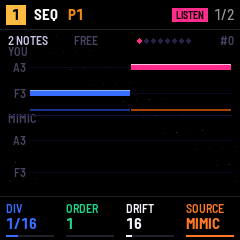
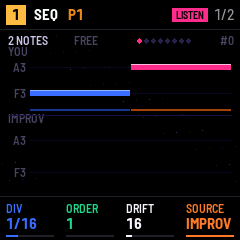
IMPROV: the source shows its own name (it read MIMIC)

Changed region(s): [[0.7875, 0.9042, 0.9625, 0.9625], [0.0292, 0.4667, 0.2042, 0.525]]

diff --git a/app/ui.c b/app/ui.c
@@ -84,7 +84,7 @@ static const q_page PAGE[] = {
     {"MOON", {"PERIOD", "PHASE", "PAD"}, {1, 0, 0}, {32, 31, 15}},       /* a KIT's: PAD for NOTE */
     {"CHORD", {"DEGREE", "SIZE"}, {0, 0}, {6, CS_N - 1}},                 /* the chord under PRESET's cursor */
     {"STEP", {"OP"}, {0}, {3}},                                          /* the TONNETZ step under PRESET's cursor */
-    {"MIMIC", {"DIV", "ORDER", "DRIFT", "SOURCE"}, {0, 1, 0, 0}, {DIV_N - 1, 2, 127, SRC_N - 1}},
+    {"IMPROV", {"DIV", "ORDER", "DRIFT", "SOURCE"}, {0, 1, 0, 0}, {DIV_N - 1, 2, 127, SRC_N - 1}},
     {"LOOP", {"LOOP"}, {0}, {16}},                                       /* 0 FREE */
 };
 
@@ -115,7 +115,7 @@ static const char *const INS_NAME[IT_N] = {"INSERT OFF", "OVERDRIVE", "WAVEFOLD"
 static const char *const INS_LABEL[IT_N][3] = {{"", "", ""}, {"DRIVE", "TONE", ""}, {"FOLD", "BIAS", "TONE"}, {"BITS", "RATE", ""},
                                                 {"RATE", "DEPTH", ""}, {"RATE", "DEPTH", "FEEDBK"}, {"FREQ", "", ""}, {"NOTE", "FEEDBK", "DAMP"}};
 static const char *const AMODE_NAME[6] = {"OFF", "UP", "DOWN", "UP-DN", "RAND", "ORDER"};
-static const char *const SRC_NAME[SRC_N] = {"STEP", "ATLAS", "FLEET", "COLONY", "LOOM", "CADENCE", "LATTICE", "MOONS", "MIMIC"};
+static const char *const SRC_NAME[SRC_N] = {"STEP", "ATLAS", "FLEET", "COLONY", "LOOM", "CADENCE", "LATTICE", "MOONS", "IMPROV"};
 /* Marbles' T models, its TGeneratorModel order (gen.c) */
 static const char *const T_MODE_NAME[7] = {"C.BERN", "CLUSTERS", "DRUMS", "I.BERN", "DIVIDER", "3 STATES", "MARKOV"};
 static const char *const PATH_NAME[PATH_N] = {"FWD", "REV", "PING-PONG", "SNAKE", "COLUMNS", "SPIRAL", "RANDOM", "XY"};

diff --git a/app/scene_mimic.c b/app/scene_mimic.c
@@ -151,7 +151,7 @@ void mimic_band(const q_miview *v, int32_t oy)
         cv_rect((int32_t)((i * 733 + 170) / 10 % 240), oy + 4 + (int32_t)((i * 479 + 40) / 10 % 160), 1, 1,
                 i % 4 ? RGB(0x1c, 0x13, 0x40) : RGB(0x3a, 0x2f, 0x63));
     glo_text(8, oy + 21, &FONT_XS, "YOU", MV_MUTE, 2);
-    glo_text(8, oy + MV_IM0 - 6, &FONT_XS, "MIMIC", MV_MUTE, 2);
+    glo_text(8, oy + MV_IM0 - 6, &FONT_XS, "IMPROV", MV_MUTE, 2);
     cv_rect(8, oy + 85, 224, 1, RGB(0x1c, 0x13, 0x40));
     if (m->n) {
         float rh = (float)(MV_PH1 - MV_PH0) / (float)nr, ch = rh - 1.0f < 6.0f ? rh - 1.0f : 6.0f;

diff --git a/app/docs/MANUAL.md b/app/docs/MANUAL.md
@@ -39,7 +39,7 @@ an animated *scene* that moves with the sound and with every knob.
 | Track | One of the four parts, 1–4. ALGORITHM picks the current one. |
 | Sound | What a track sounds like: a model (EDIT) shaped by ENV, LFO, ARP and FX. |
 | Pattern | P1–P8, eight per track. A track plays one pattern at a time. |
-| Source | Where a pattern's notes come from: STEP, ATLAS, FLEET, COLONY, LOOM, CADENCE, LATTICE, MOONS or MIMIC. |
+| Source | Where a pattern's notes come from: STEP, ATLAS, FLEET, COLONY, LOOM, CADENCE, LATTICE, MOONS or IMPROV. |
 | Step | One of a STEP pattern's 64 places, 16 per page of the grid. |
 | P-lock | A knob's value stored on a single step. |
 | Scene | The four patterns playing and the mutes, kept together. Eight per project. |
@@ -688,7 +688,7 @@ A scene can switch a track from one source to another, since each pattern has it
 | CADENCE | A chord progression. |
 | LATTICE | A walk from chord to chord on the Tonnetz. |
 | MOONS | Moons on orbits, each playing as it passes. |
-| MIMIC | An improviser that learns a phrase from you. |
+| IMPROV | An improviser that learns a phrase from you. |
 
 What the generative sources (all but STEP) share:
 
@@ -696,12 +696,12 @@ What the generative sources (all but STEP) share:
   the scenes like a STEP pattern's.
 - A loop is 16 steps (ATLAS 32, FLEET its LEN): a pattern change waits for its end, and a song entry counts it.
 - Without REC, the keys play the track. REC writes nothing in them, except LOOM, CADENCE and LATTICE, which have a
-  GRID of their own, and MIMIC, which listens.
+  GRID of their own, and IMPROV, which listens.
 - PRESET always does something useful for the source: each subsection says what.
-- On a synth track, setting SOURCE to CADENCE, LATTICE, MOONS or MIMIC raises POLY to 3 if it is lower, so their
+- On a synth track, setting SOURCE to CADENCE, LATTICE, MOONS or IMPROV raises POLY to 3 if it is lower, so their
   chords sound.
 - COLONY, LOOM, CADENCE, LATTICE and MOONS count in degrees of GLO's scale, up from their NOTE brought into the
-  scale. FLEET has its own allowed notes; ATLAS plays a fixed NOTE; MIMIC plays the notes it learnt.
+  scale. FLEET has its own allowed notes; ATLAS plays a fixed NOTE; IMPROV plays the notes it learnt.
 
 ### STEP
 
@@ -898,33 +898,33 @@ passes the top. Moons with different periods meet now and then: those meetings p
 MOONS is QUARTZ's own. Orbit sequencers such as [Aphelian](https://apps.apple.com/app/aphelian/id1435855056) play
 with the same image.
 
-### MIMIC
+### IMPROV
 
-You play a phrase, MIMIC improvises on it: it picks a place in the phrase where the last notes it played appear, and
+You play a phrase, IMPROV improvises on it: it picks a place in the phrase where the last notes it played appear, and
 goes on from there. The result sounds like your phrase, rearranged.
 
 | Page | K1 | K2 | K3 | K4 |
 | --- | --- | --- | --- | --- |
-| MIMIC | DIV | ORDER, 1–2 | DRIFT, 0–127 | SOURCE |
+| IMPROV | DIV | ORDER, 1–2 | DRIFT, 0–127 | SOURCE |
 | LOOP | LOOP: FREE, 1–16 | — | — | — |
 
-- **LISTEN**: in SEQ, press REC once. MIMIC goes quiet, the header shows `LISTEN`, and every note you play is learnt,
+- **LISTEN**: in SEQ, press REC once. IMPROV goes quiet, the header shows `LISTEN`, and every note you play is learnt,
   with the time until the next one (up to 7 steps; notes played together make a chord). The first note clears the old
   phrase; the phrase keeps the last 32 notes. Press REC again to stop: the time since the last note becomes its gap.
   Changing pattern, track, source or domain stops LISTEN too.
 - **ORDER** 1 matches the last note played, 2 the last two (more like the phrase).
 - **DRIFT** is the chance of jumping anywhere in the phrase instead.
 - **LOOP** 1–16 starts the improvisation again every LOOP steps, the same way each time: a riff. FREE never repeats.
-- The white keys 1–8 show where in the phrase MIMIC is reading, in eighths; in LISTEN, how full the phrase is.
+- The white keys 1–8 show where in the phrase IMPROV is reading, in eighths; in LISTEN, how full the phrase is.
 - A new pattern knows C4 D4 E4 G4 E4 D4 C4.
 - **PRESET** draws again: another improvisation from the same phrase, at once.
 
-![MIMIC: the phrase above (YOU) in four coloured quarters, the improvisation below (MIMIC) scrolling from the NOW line](img/source-mimic.png "MIMIC")
+![IMPROV: the phrase above (YOU) in four coloured quarters, the improvisation below (IMPROV) scrolling from the NOW line](img/source-mimic.png "IMPROV")
 
-![MIMIC in LISTEN: 2 NOTES learnt, F3 and A3](img/source-mimic-listen.png "LISTEN")
+![IMPROV in LISTEN: 2 NOTES learnt, F3 and A3](img/source-mimic-listen.png "LISTEN")
 
 **Inspired by** the [Continuator](https://www.francoispachet.fr/?p=4360) by François Pachet (Sony CSL, 2003), which
-learns a musician's phrases as they play and answers in their style. MIMIC learns one phrase, with ORDER 1 or 2.
+learns a musician's phrases as they play and answers in their style. IMPROV learns one phrase, with ORDER 1 or 2.
 
 ---
 
@@ -996,7 +996,7 @@ QUARTZ is made by f0nski. It stands on the work of others: code it runs, and ide
 | COLONY | The Game of Life (idea) | John Horton Conway, 1970 | — | [Wikipedia](https://en.wikipedia.org/wiki/Conway%27s_Game_of_Life) |
 | LOOM | Kria (idea) | monome | — | [docs](https://monome.org/docs/ansible/kria/) |
 | LATTICE | The Tonnetz and neo-Riemannian theory (idea) | Leonhard Euler; David Lewin, Richard Cohn | — | [Wikipedia](https://en.wikipedia.org/wiki/Neo-Riemannian_theory) |
-| MIMIC | The Continuator (idea) | François Pachet, Sony CSL, 2003 | — | [paper](https://www.francoispachet.fr/?p=4360) |
+| IMPROV | The Continuator (idea) | François Pachet, Sony CSL, 2003 | — | [paper](https://www.francoispachet.fr/?p=4360) |
 | Step functions | Parameter locks, trig conditions, micro timing (idea) | Elektron | — | [Digitakt](https://www.elektron.se/support-downloads/digitakt) |
 | Domains, held-button maps, punch-ins, this guide's shape | The OP-Z (idea) | teenage engineering | — | [guide](https://teenage.engineering/guides/op-z) |
 | CADENCE, MOONS, the scenes | QUARTZ's own | f0nski | GPL-3.0 | — |
@@ -1015,7 +1015,7 @@ Instruments, monome, Elektron or teenage engineering.
 | --- | --- |
 | No sound | MASTER; HOME, the track's mute (HOME held, keys 1–4) and its LVL; FX's MIX LEVEL; ENV's CUTOFF on LP. |
 | A key does nothing | A button may still be held (its map is on the screen). With KEYS at FLEET or ALL, the black keys are silent. |
-| REC does nothing | The pattern is generative: only LOOM, CADENCE and LATTICE have a GRID, and MIMIC listens. To record notes, set SOURCE to STEP. |
+| REC does nothing | The pattern is generative: only LOOM, CADENCE and LATTICE have a GRID, and IMPROV listens. To record notes, set SOURCE to STEP. |
 | The pattern doesn't change | While playing, it waits for the end of the loop (`P1 > P2` in the header). |
 | `STOP TO SAVE` | Stop, then press SAVE. |
 | `LOCKS FULL` | The pattern holds 128 p-locks: clear some (REC held, black key 2 clears them all). |
